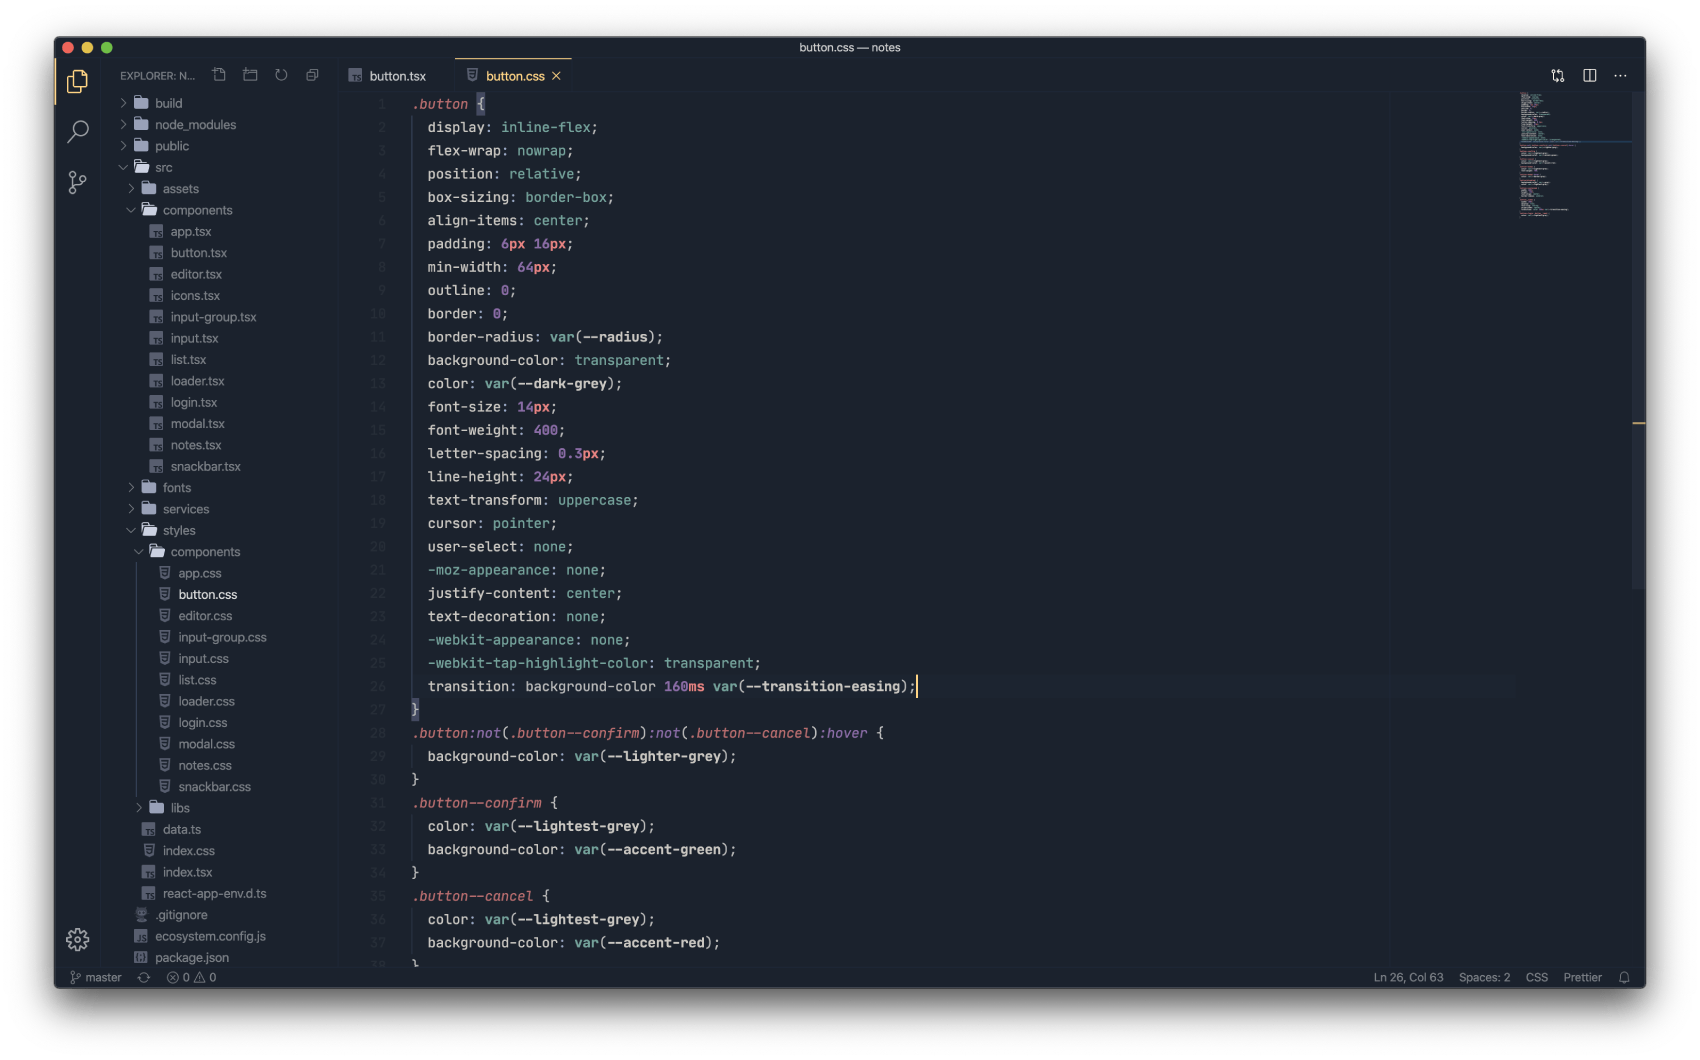
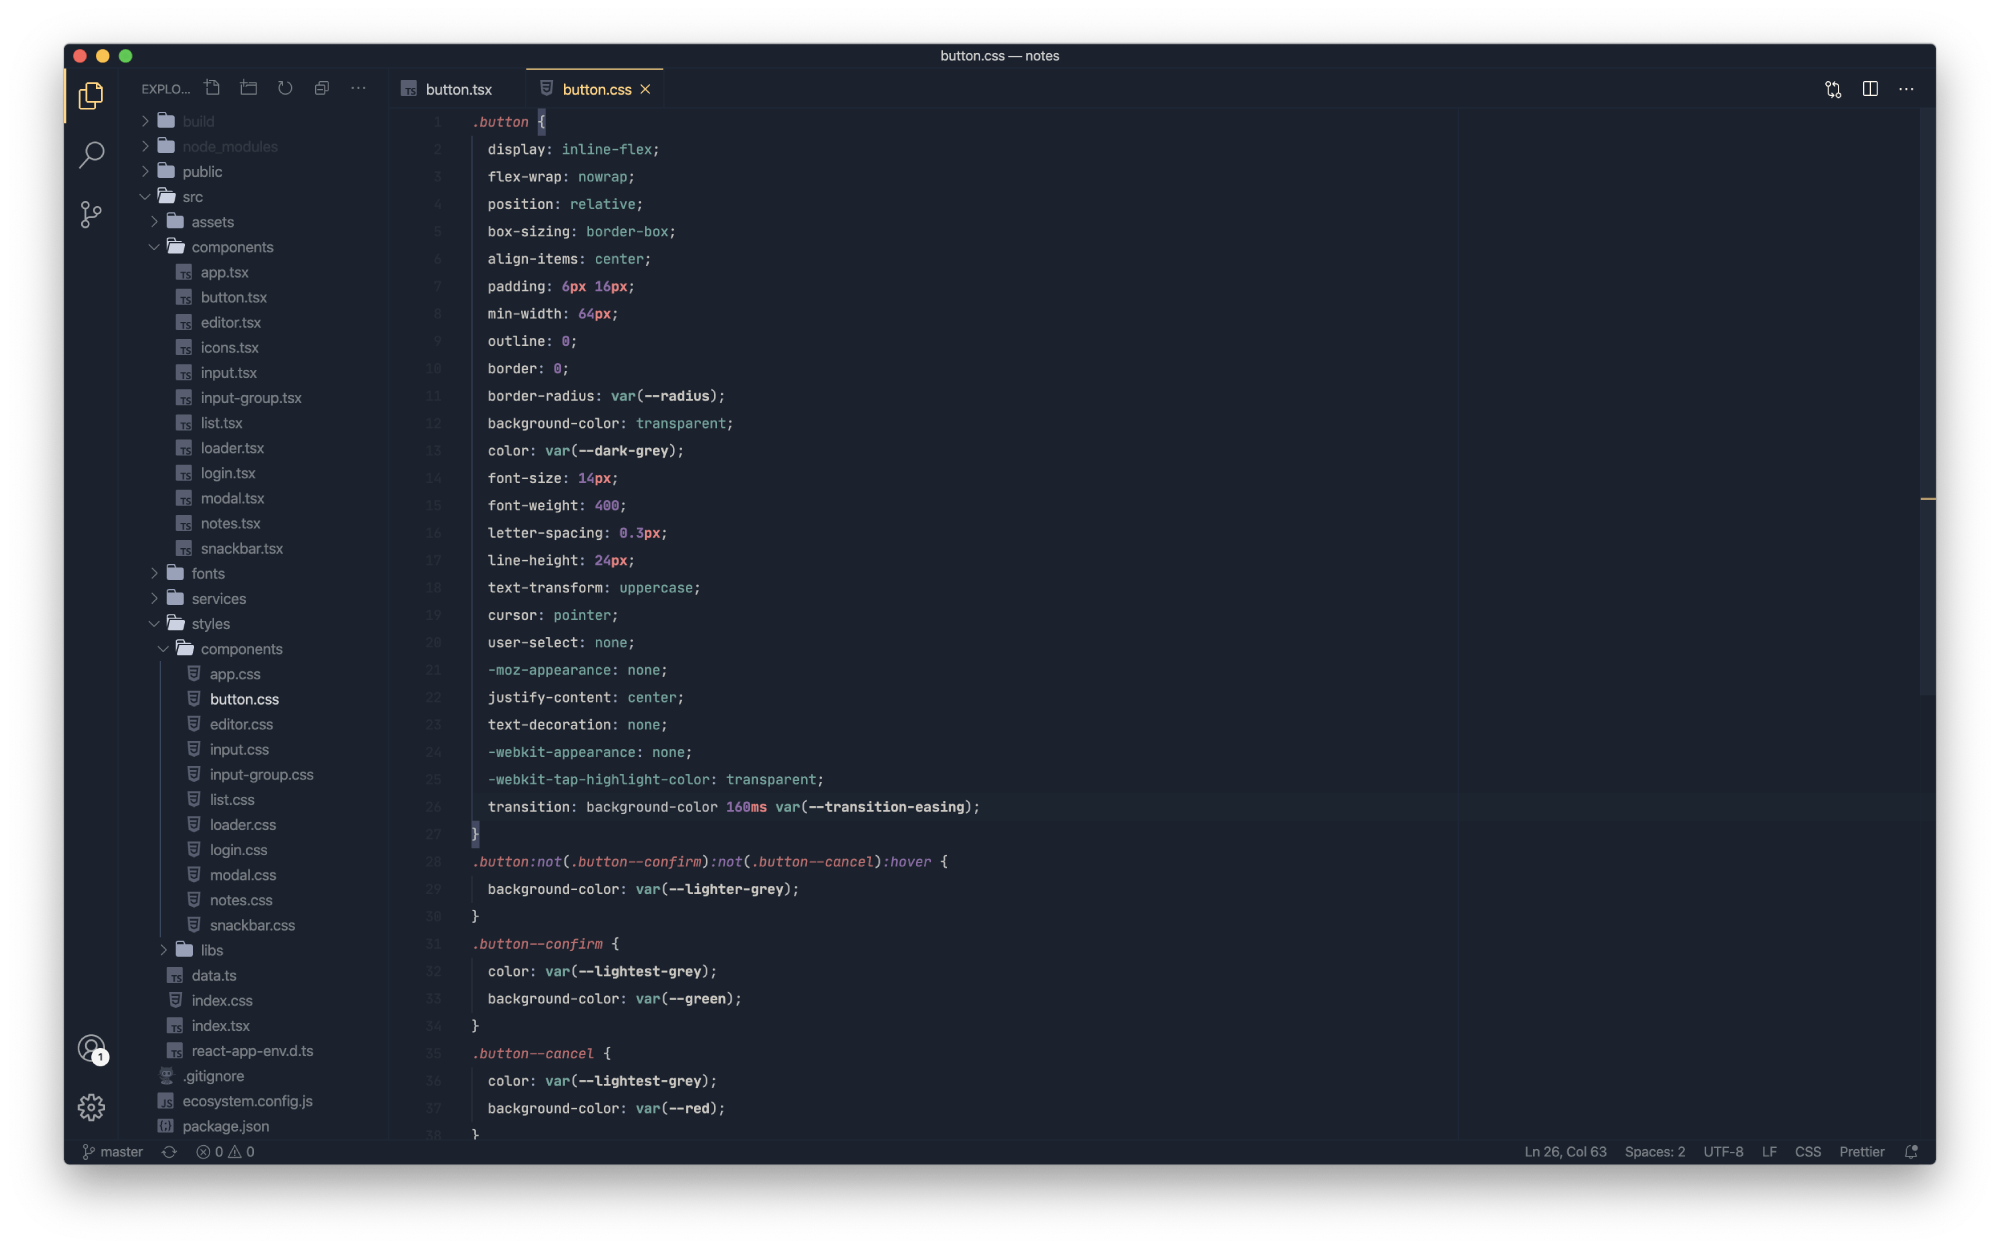
Update README file

diff --git a/README.md b/README.md
@@ -20,10 +20,8 @@ Created by [Jean Tinland](https://www.jeantinland.com)
 ![.tsx preview](./assets/preview_3.png)
 Flat (no-borders) variant
 
-Font: **_JetBrains Mono_**\
-Font size: **_14_**\
-Editor line height: **_24_**\
-Icon pack: **_City Lights Icon Package_**
+![.tsx preview](./assets/preview_4.png)
+Light variant
 
 ## Colors
 
